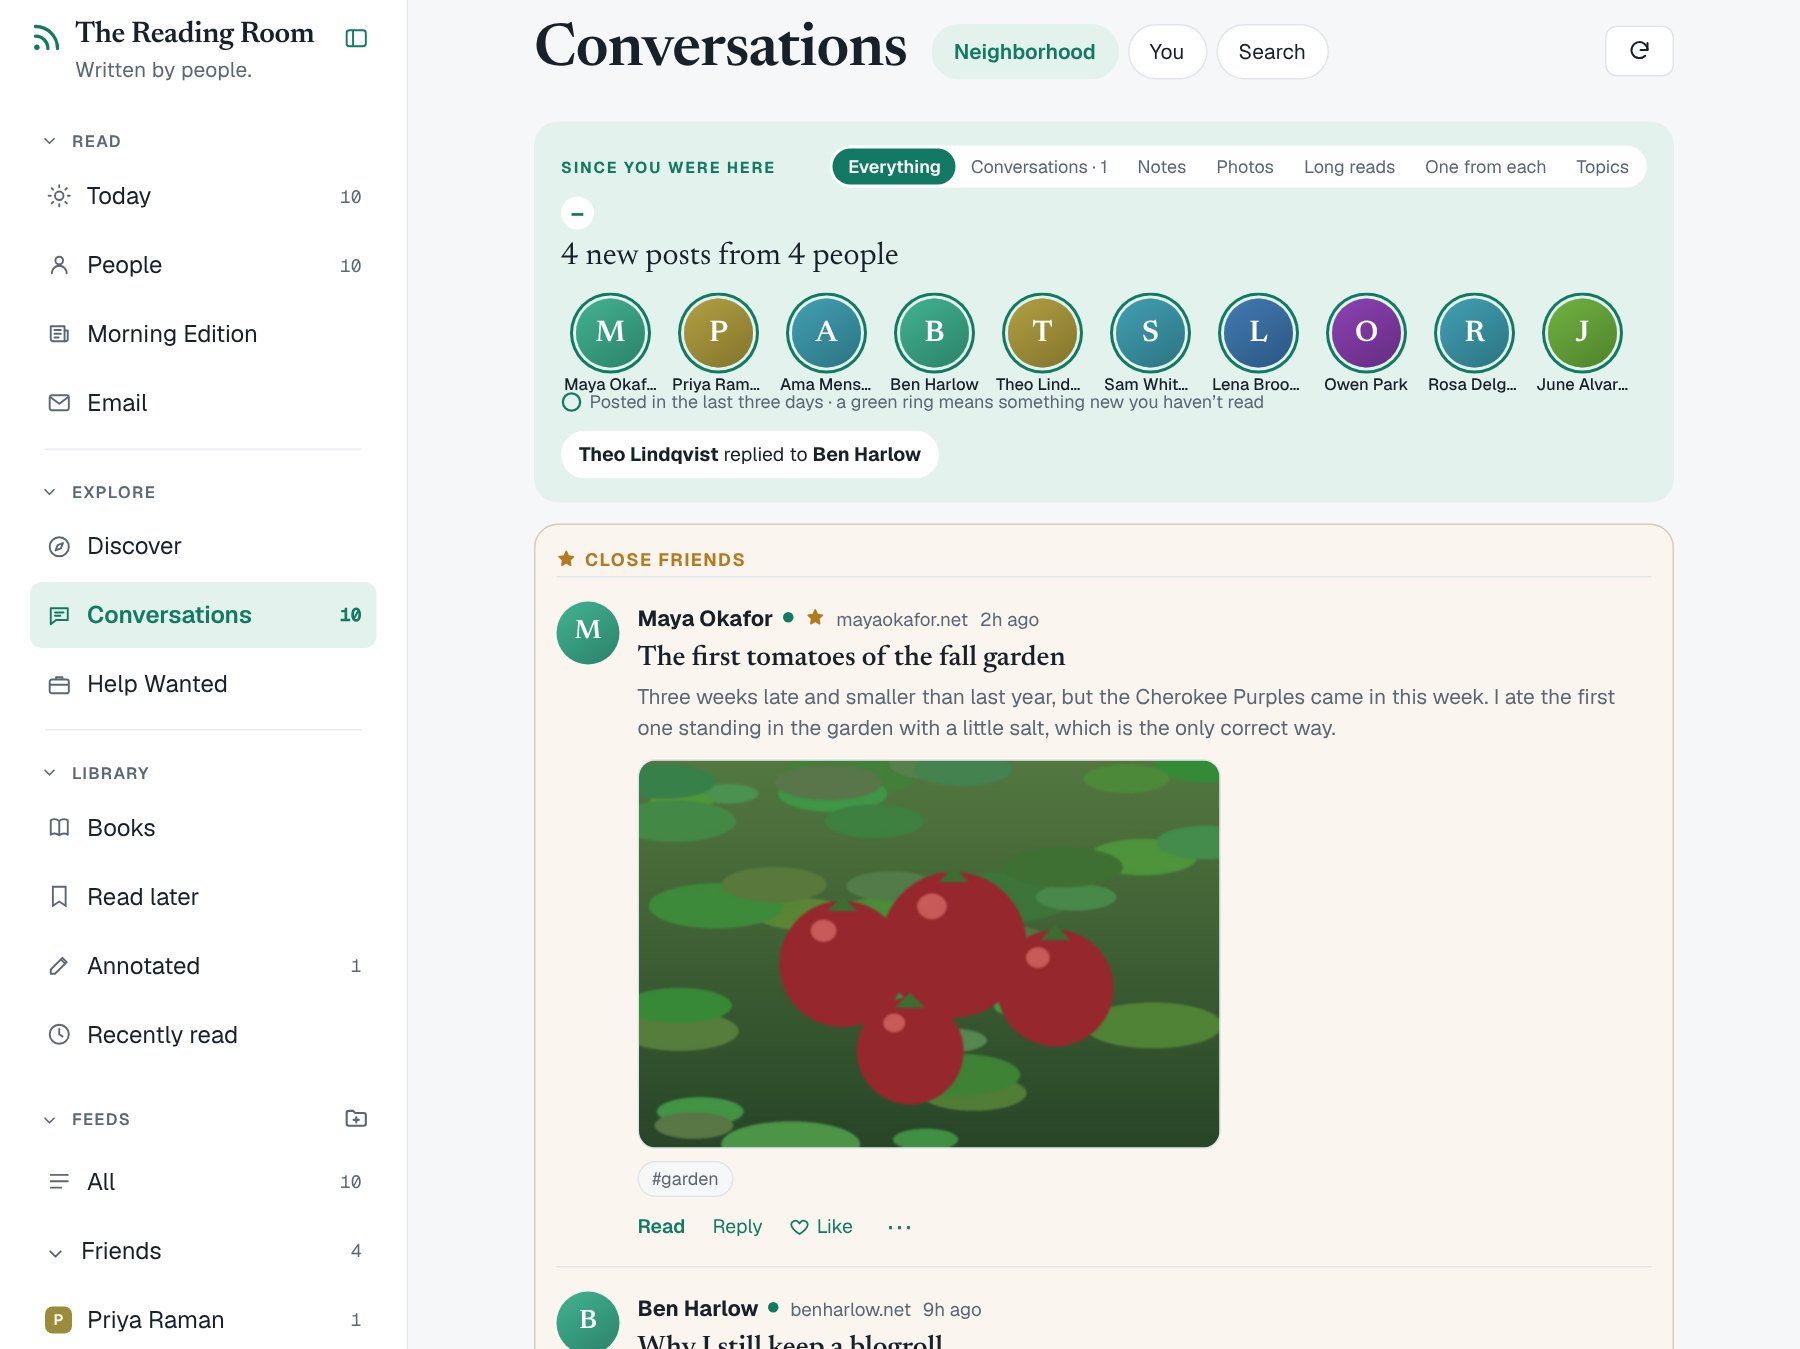
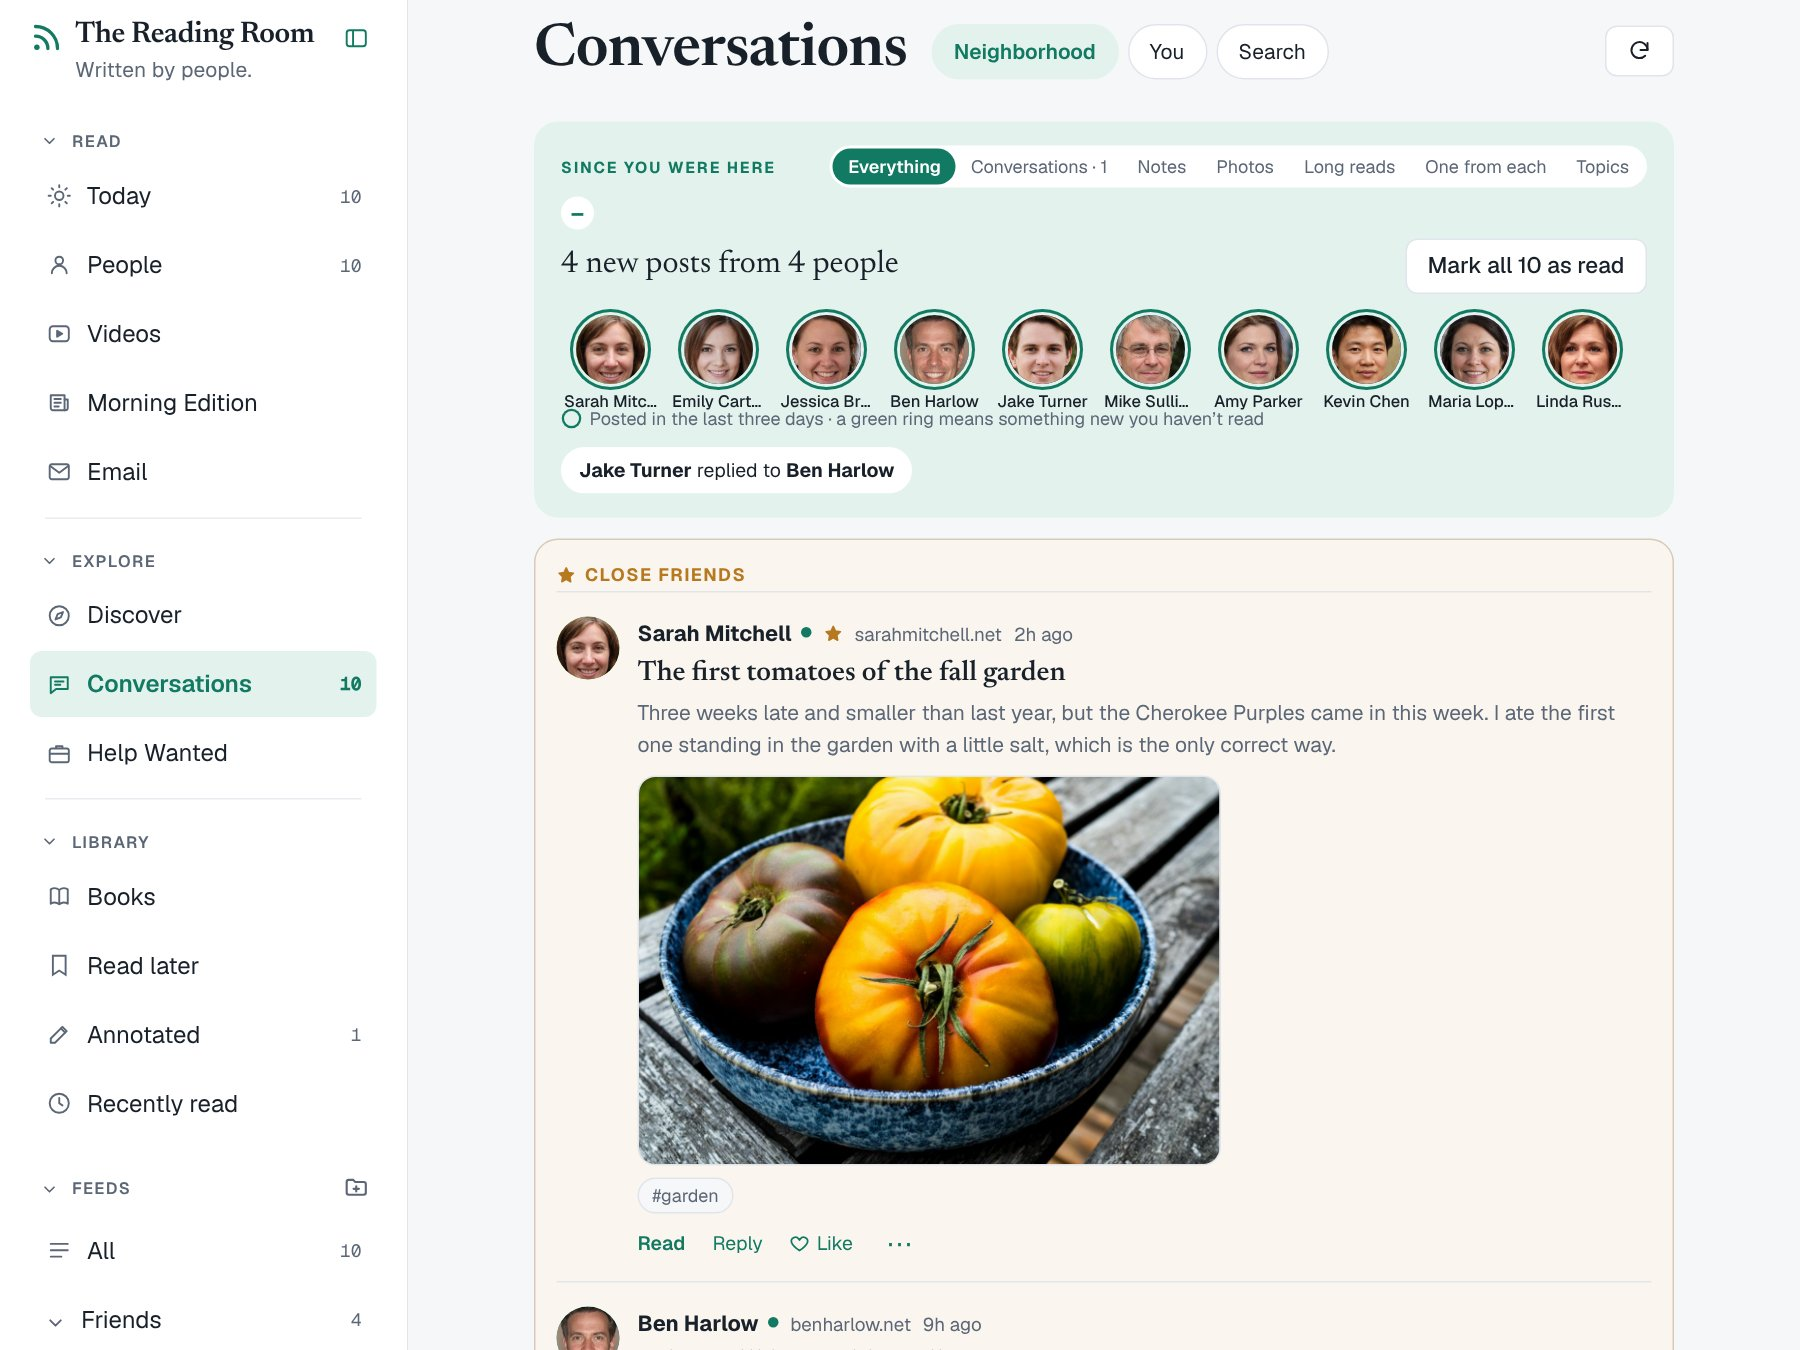
Website screenshots: the New look people (faces, tomato photo), matching the App Store page
Claude-Session: https://claude.ai/code/session_01GwdVynEjmmWvg8hC1wQnD9

diff --git a/index.html b/index.html
@@ -43,7 +43,7 @@
     </section>
 
     <div class="hero-shot wrap">
-      <img class="shot" src="assets/img/ipad-1.jpg" width="1800" height="1349" alt="The Reading Room on iPad, showing Conversations: the Neighborhood, with the faces of people who posted and a close friend’s new post">
+      <img class="shot" src="assets/img/ipad-1.jpg" width="1800" height="1350" alt="The Reading Room on iPad, showing Conversations: the Neighborhood, with the faces of people who posted and a close friend’s new post">
     </div>
 
     <section class="why" id="why">
